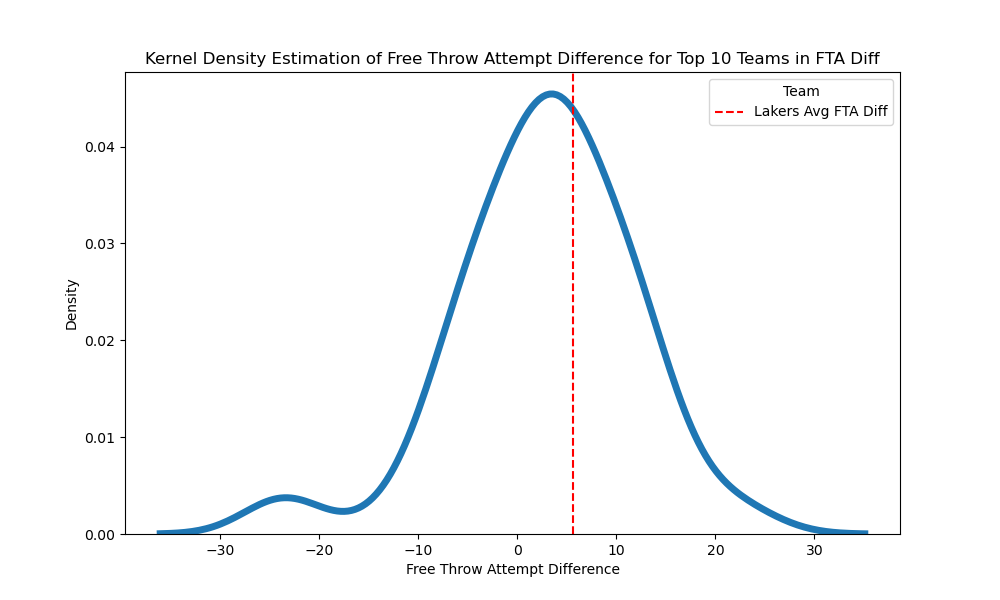
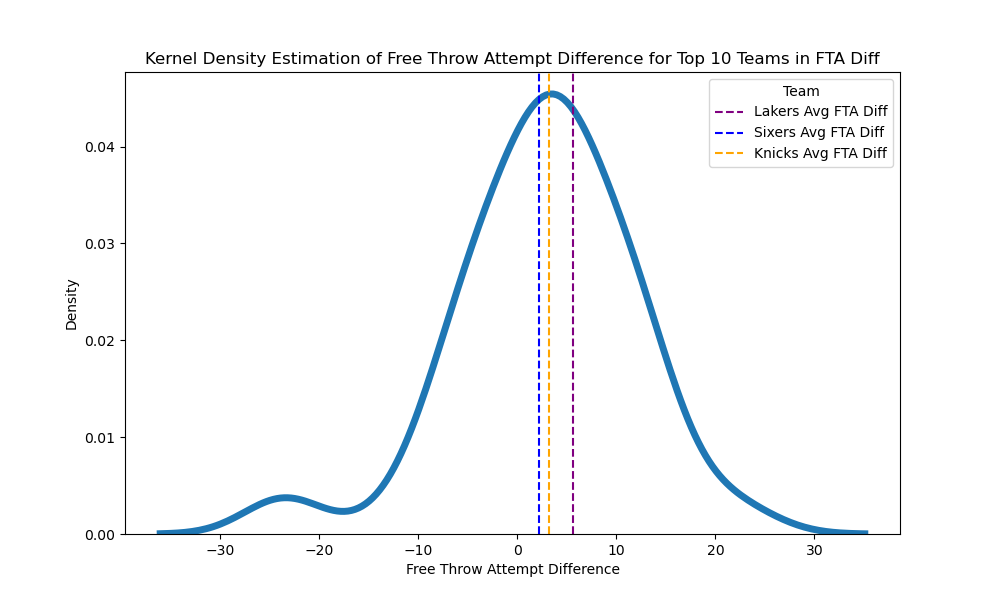
updates

diff --git a/_posts/free_throw_2024/01_team_data.py b/_posts/free_throw_2024/01_team_data.py
@@ -120,7 +120,11 @@ plt.figure(figsize=(10,6))
 sns.kdeplot(data=data['fta_diff'], linewidth=5)
 # let's add a vertical line for the Lakers' average fta
 lakers_average_fta_diff = master_team[master_team['team_name']=='lal']['fta_diff'].mean()
-plt.axvline(x=lakers_average_fta_diff,color='red',linestyle='--', label='Lakers Avg FTA Diff')
+plt.axvline(x=lakers_average_fta_diff,color='purple',linestyle='--', label='Lakers Avg FTA Diff')
+sixers_average_fta_diff = master_team[master_team['team_name']=='phi']['fta_diff'].mean()
+plt.axvline(x=sixers_average_fta_diff,color='blue',linestyle='--',label='Sixers Avg FTA Diff')
+knicks_average_fta_diff = master_team[master_team['team_name']=='nyk']['fta_diff'].mean()
+plt.axvline(x=knicks_average_fta_diff,color='orange',linestyle='--',label='Knicks Avg FTA Diff')
 plt.xlabel('Free Throw Attempt Difference')
 plt.ylabel('Density')
 plt.title('Kernel Density Estimation of Free Throw Attempt Difference for Top 10 Teams in FTA Diff')
